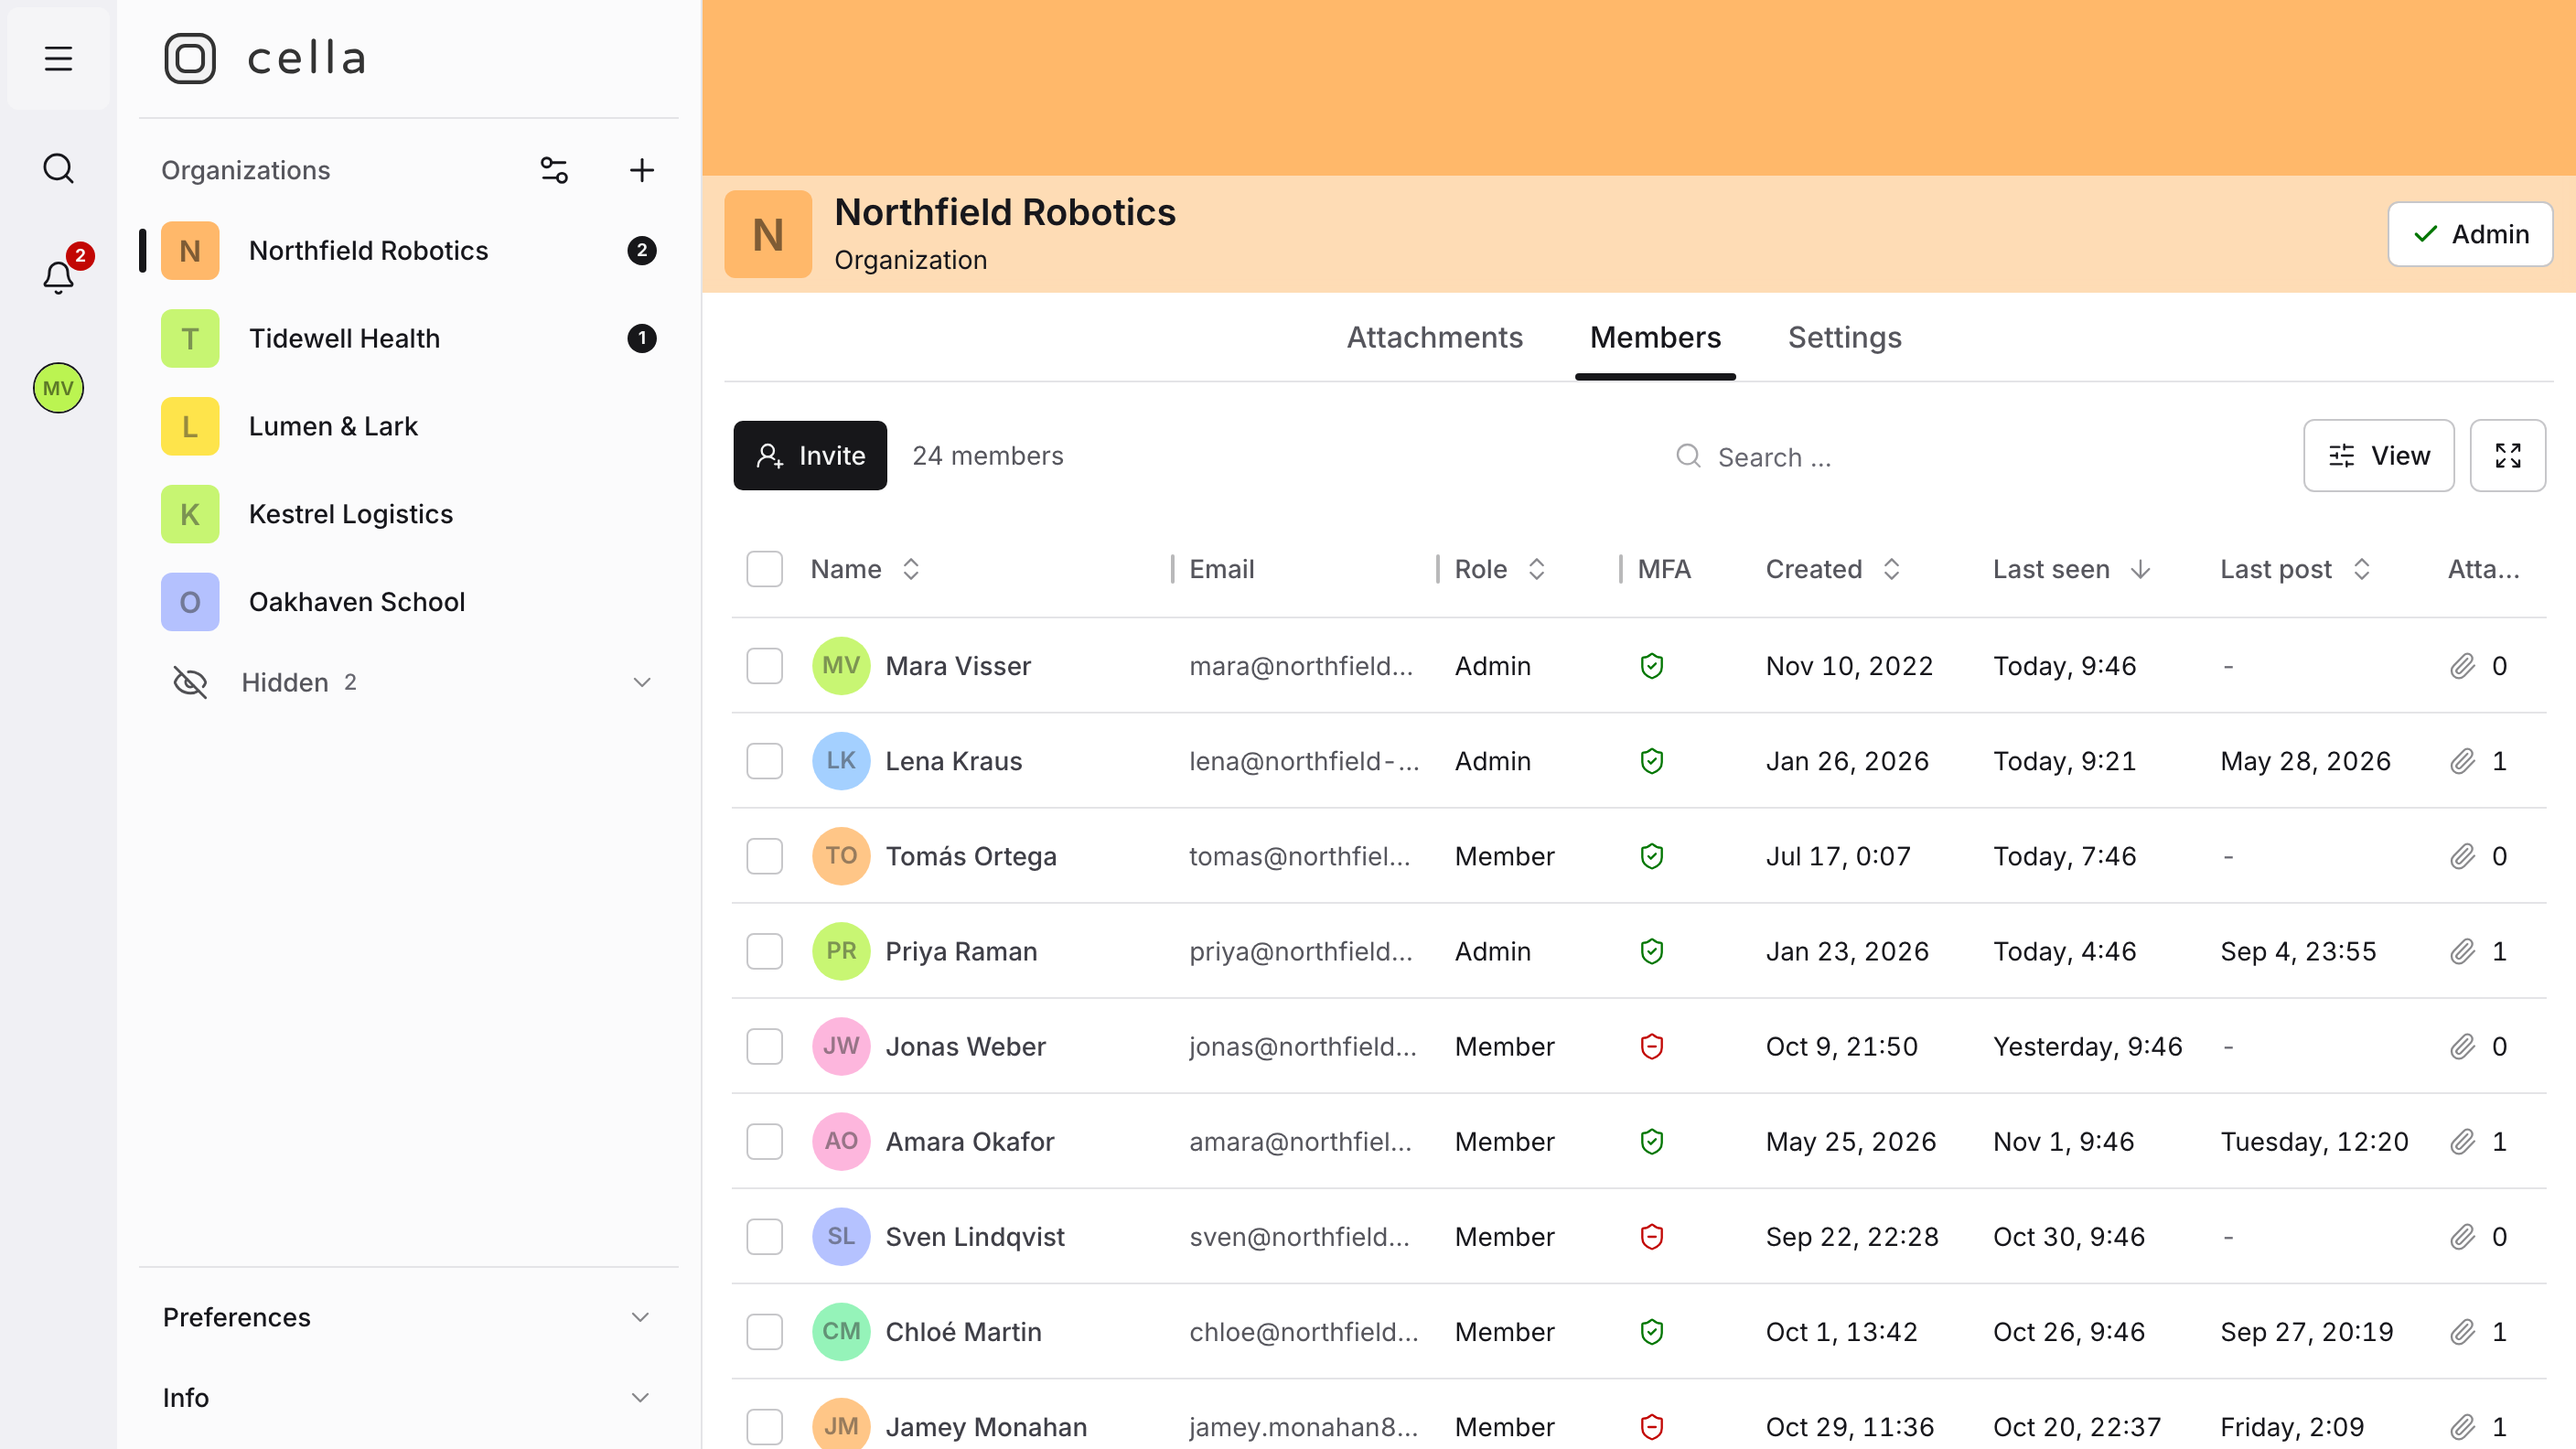
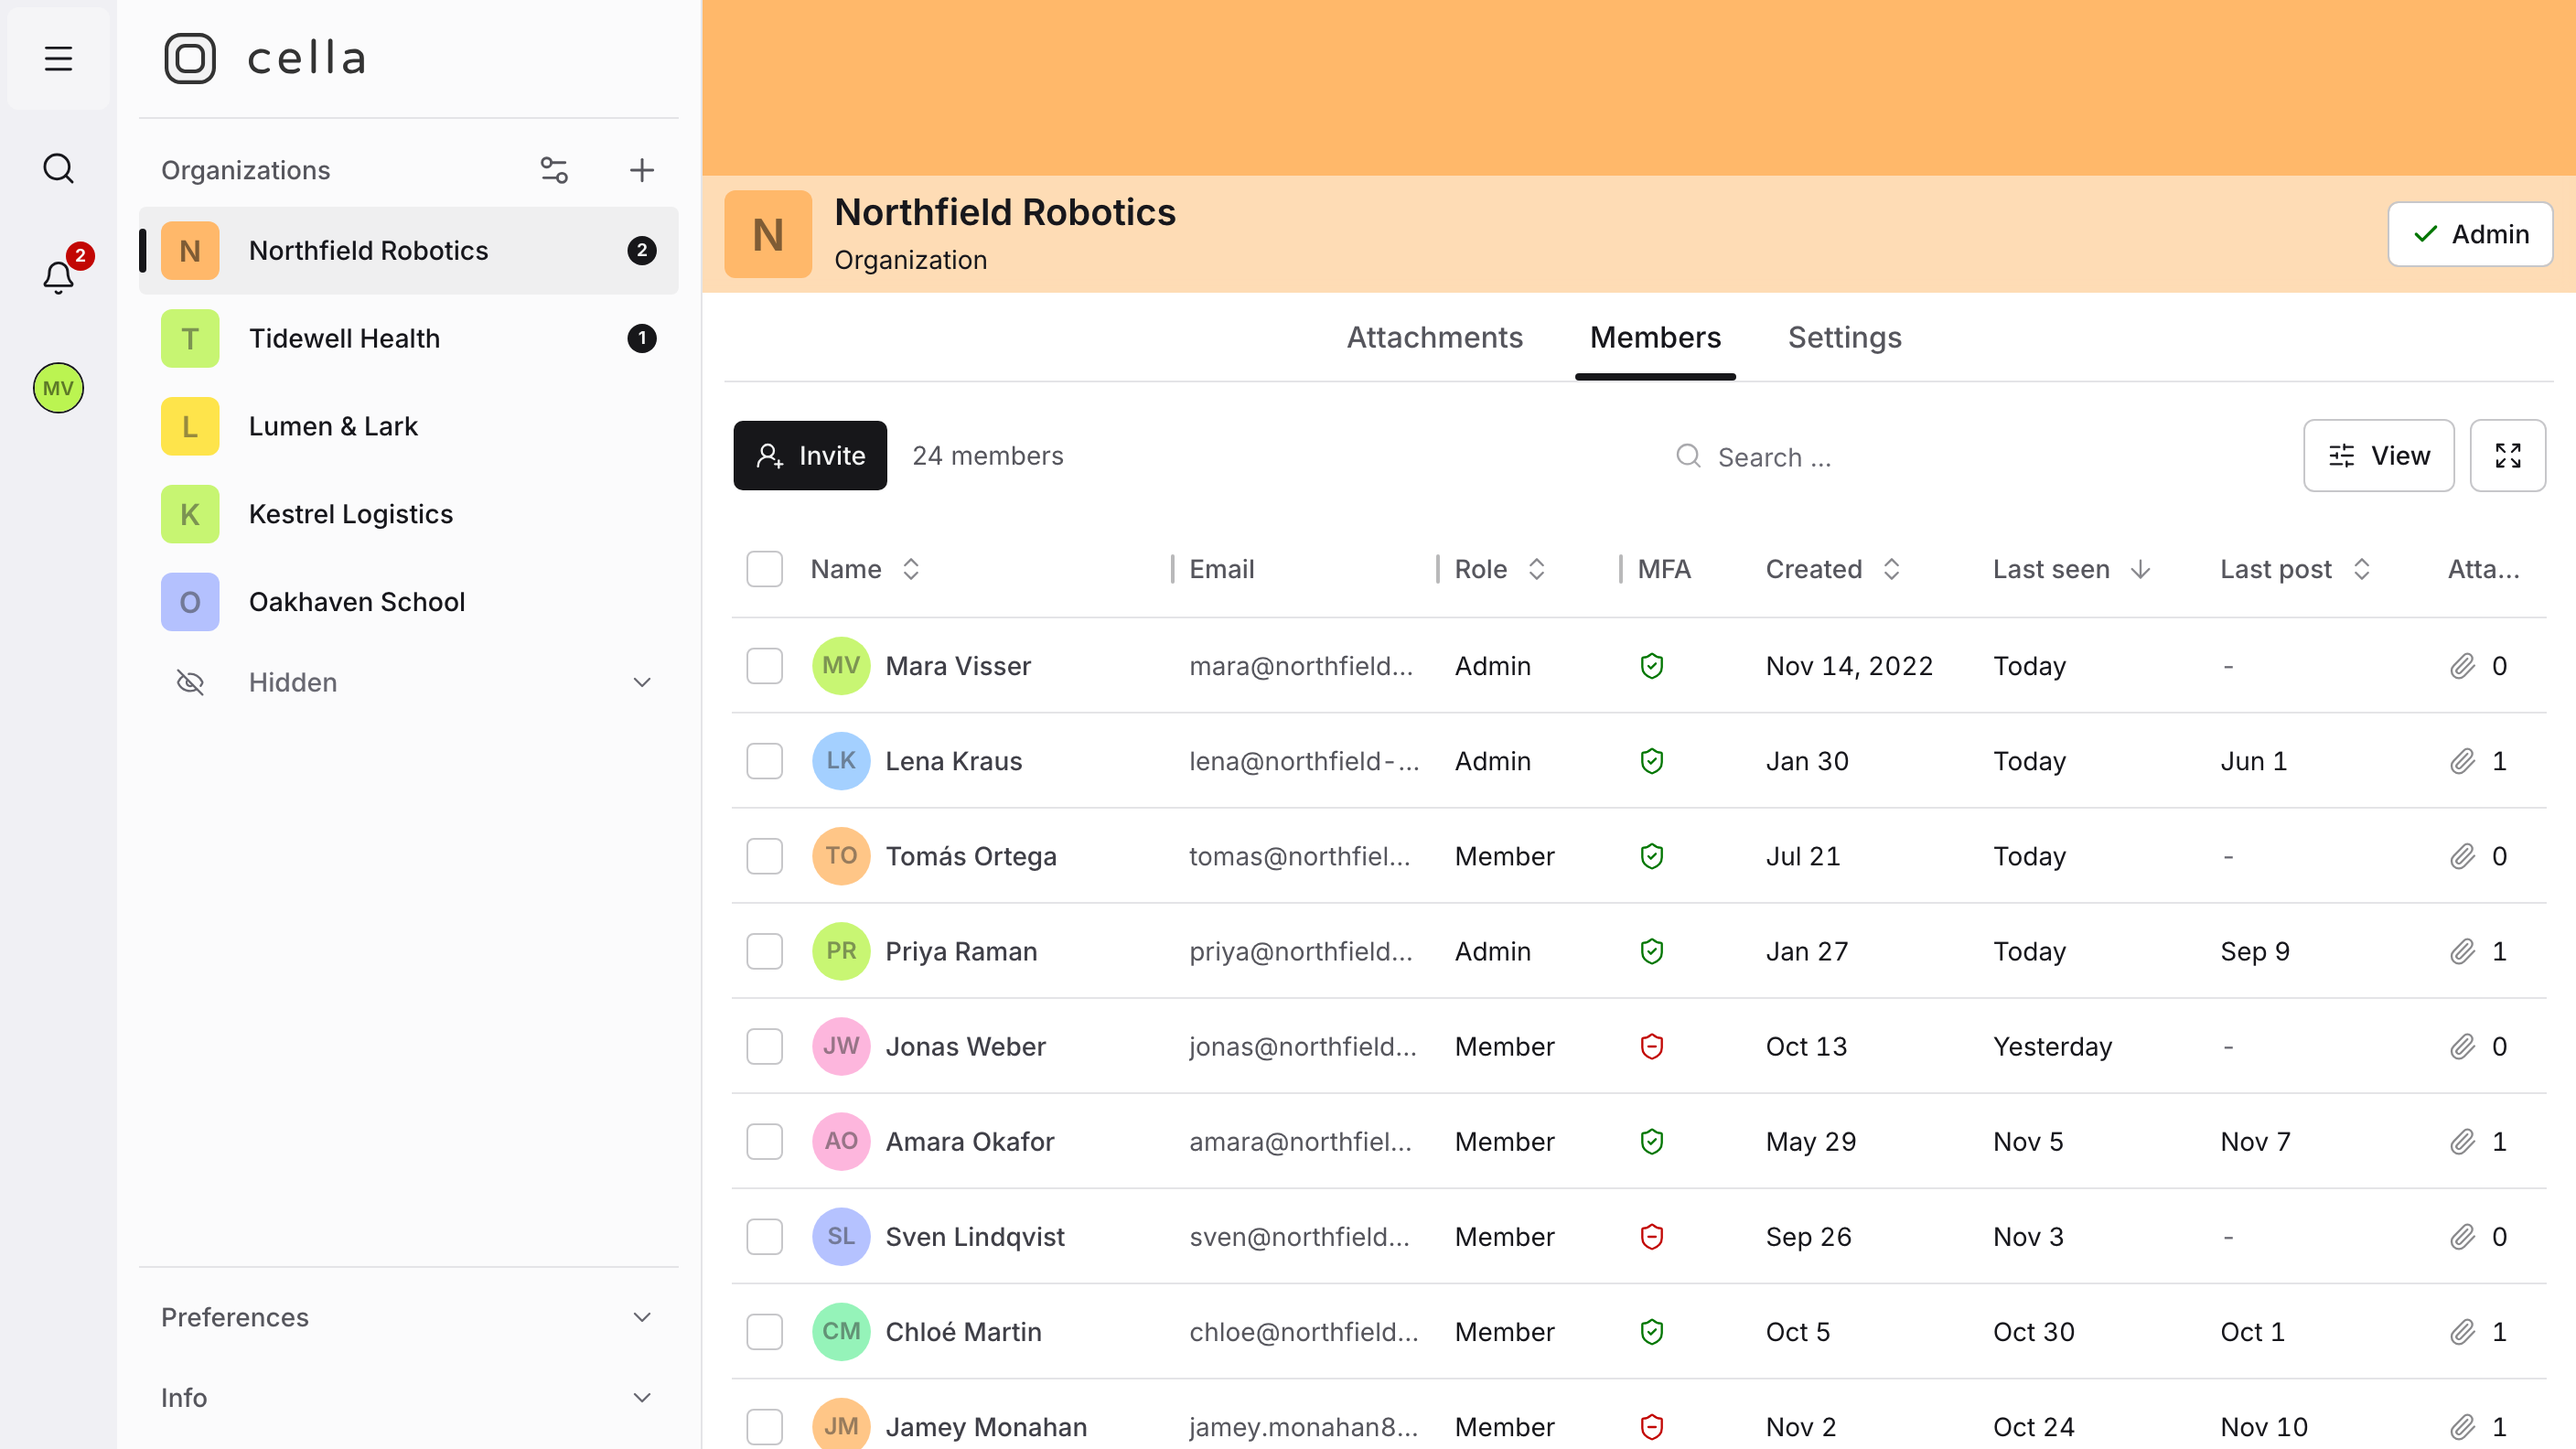
chore(marketing): re-shoot the screenshots, and the menu shots fold the Hidden section again
The menu's Hidden toggle button is now a direct child of its data-hidden-visible wrapper (#1817), so foldHidden
matched nothing and the menu shots showed hidden organizations. All 14 screenshots and the link preview are re-shot
on the showcase; settings came out byte-identical.

diff --git a/cella/screenshots.ts b/cella/screenshots.ts
@@ -7,7 +7,7 @@ import { apiClient } from './a11y.ts';
  * its row out of the match, so the loop asks for the first one each time.
  */
 const foldHidden = async (page: Page) => {
-  const unfolded = page.locator('#nav-sheet [data-hidden-visible="true"][data-has-hidden="true"] > div button');
+  const unfolded = page.locator('#nav-sheet [data-hidden-visible="true"][data-has-hidden="true"] > button');
   while (await unfolded.count()) await unfolded.first().click();
 };
 
